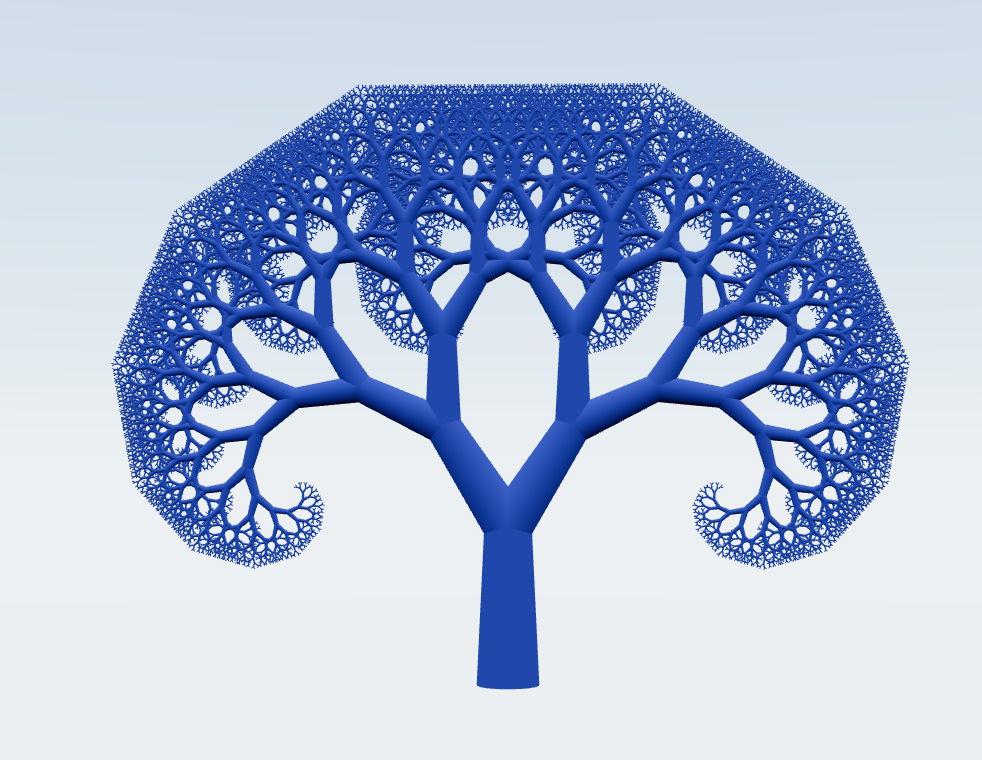
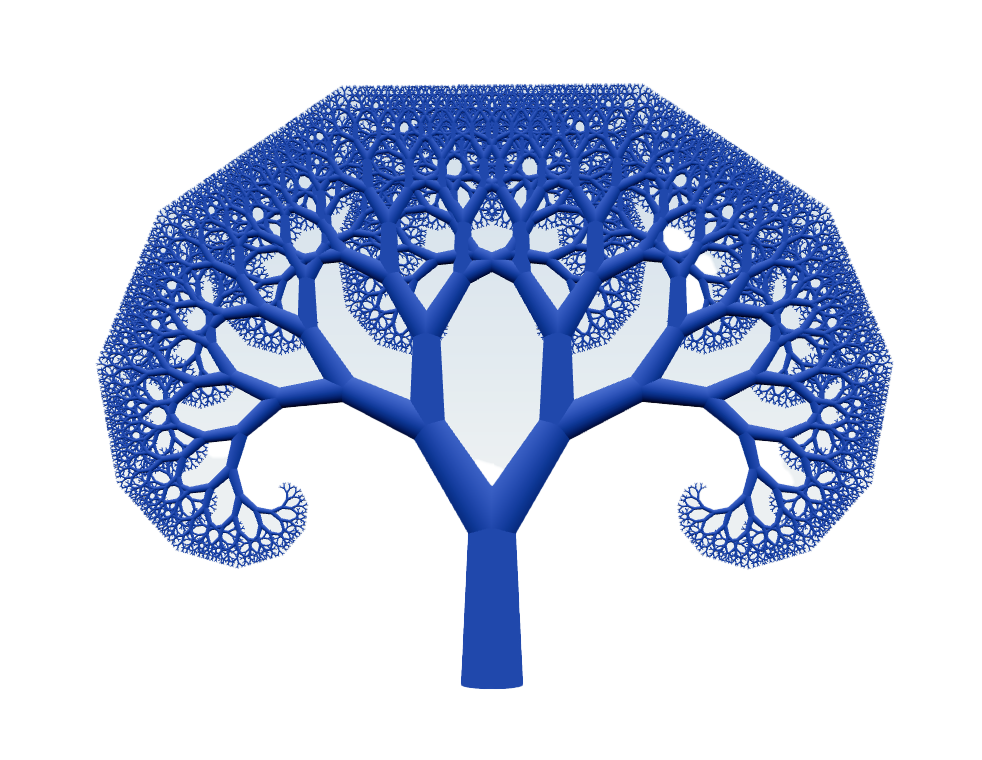
fractal tree update

diff --git a/components/fractal-tree.jsx b/components/fractal-tree.jsx
@@ -6,7 +6,13 @@ import * as THREE from "three/src/materials/MeshLambertMaterial";
 
 const royalblue = new THREE.MeshLambertMaterial({ color: "royalblue" });
 
-export default function FractalTreeCanvas({ is3D, initDepth }) {
+export default function FractalTreeCanvas({
+  is3D = false,
+  initDepth,
+  showDepth = false,
+  showAngle = false,
+  showShape = false,
+}) {
   const [depth, setDepth] = useState(initDepth);
   const [angleIncrement, setAngleIncrement] = useState(0.5);
   const [shape, setShape] = useState("cylinder");
@@ -15,7 +21,7 @@ export default function FractalTreeCanvas({ is3D, initDepth }) {
     setDepth(e.target.value);
   }
 
-  function handleAngleIncrement(e) {
+  function handleAngle(e) {
     setAngleIncrement(e.target.value);
   }
 
@@ -25,9 +31,9 @@ export default function FractalTreeCanvas({ is3D, initDepth }) {
 
   return (
     <>
-      <Canvas frameloop="demand">
-        <PerspectiveCamera makeDefault position={[0, 4, 9]} fov={50} />
-        <OrbitControls enableZoom={false} />
+      <Canvas frameloop="demand" antialias="false">
+        <PerspectiveCamera makeDefault position={[0, 3, 5]} fov={50} />
+        <OrbitControls enableZoom={false} target={[0, 2, 0]} />
         <hemisphereLight
           intensity={0.5}
           skyColor={0xffffbb}
@@ -43,12 +49,15 @@ export default function FractalTreeCanvas({ is3D, initDepth }) {
           />
         </Suspense>
       </Canvas>
-      <DepthAngleUI
-        depth={depth}
-        handleDepth={handleDepth}
-        angleIncrement={angleIncrement}
-        handleAngleIncrement={handleAngleIncrement}
-      />
+
+      {/* UI */}
+      <div className="mx-auto w-72 sm:w-96 flex justify-center my-3">
+        {showDepth && <DepthUI depth={depth} handleDepth={handleDepth} />}
+        {showAngle && (
+          <AngleUI angleIncrement={angleIncrement} handleAngle={handleAngle} />
+        )}
+        {showShape && <ShapeUI shape={shape} handleShape={handleShape} />}
+      </div>
     </>
   );
 }
@@ -71,8 +80,8 @@ function FractalTree({ depth, angleIncrement, shape, is3D }) {
     }
     branches.push(
       <Branch
-        radiusS={radius * ratio}
-        radiusE={radius}
+        radiusT={radius * ratio}
+        radiusB={radius}
         height={height}
         angleZ={angleZ}
         angleX={angleX}
@@ -97,8 +106,10 @@ function FractalTree({ depth, angleIncrement, shape, is3D }) {
     generate(depth, angleZL, 0, radius, height, x, y, z);
     generate(depth, angleZR, 0, radius, height, x, y, z);
     if (is3D) {
-      generate(depth, 0, angleZL, radius, height, x, y, z);
-      generate(depth, 0, angleZR, radius, height, x, y, z);
+      let angleXL = (angleX * 10 + angleIncrement * 10) / 10;
+      let angleXR = (angleX * 10 - angleIncrement * 10) / 10;
+      generate(depth, 0, angleXL, radius, height, x, y, z);
+      generate(depth, 0, angleXR, radius, height, x, y, z);
     }
   }
 
@@ -107,21 +118,21 @@ function FractalTree({ depth, angleIncrement, shape, is3D }) {
 }
 
 // branch of a fractal tree
-function Branch({ radiusS, radiusE, height, x, y, z, angleZ, angleX, shape }) {
+function Branch({ radiusT, radiusB, height, x, y, z, angleZ, angleX, shape }) {
   return (
     <group position={[x, y, z]} rotation={[angleX, 0, angleZ]}>
       <mesh position={[0, height / 2, 0]} material={royalblue}>
         {shape === "cylinder" ? (
           <cylinderGeometry
             attach="geometry"
-            args={[radiusS, radiusE, height, 32]}
+            args={[radiusT, radiusB, height, 32]}
           />
         ) : shape === "cube" ? (
           <boxGeometry attach="geometry" args={[height, height, height]} />
         ) : shape === "sphere" ? (
           <sphereGeometry attach="geometry" args={[height / 2]} />
         ) : (
-          <dodecahedronGeometry attach="geometry" args={[height / 2]} />
+          <octahedronGeometry attach="geometry" args={[height / 2]} />
         )}
       </mesh>
     </group>
@@ -129,50 +140,42 @@ function Branch({ radiusS, radiusE, height, x, y, z, angleZ, angleX, shape }) {
 }
 
 // GUI
-function DepthAngleUI({
-  depth,
-  handleDepth,
-  angleIncrement,
-  handleAngleIncrement,
-}) {
+function DepthUI({ depth, handleDepth }) {
   return (
-    <div className="mx-auto w-72 sm:w-96 flex justify-between">
-      <div className="flex flex-col">
-        <label htmlFor="depth-slider" className="my-2">
-          Depth
-        </label>
-        <input
-          id="depth-slider"
-          className="appearance-none bg-blue-500 rounded-lg h-1 thumb-lg-blue-600"
-          type="range"
-          min="1"
-          max="10"
-          value={depth}
-          onChange={(e) => handleDepth(e)}
-        />
-      </div>
-      <div className="flex flex-col ">
-        <label htmlFor="angle-slider" className="my-2">
-          Angle
-        </label>
-        <input
-          id="angle-slider"
-          className="appearance-none bg-blue-500 rounded-lg h-1 thumb-lg-blue-600"
-          type="range"
-          min="0.1"
-          max="1.5"
-          step="0.1"
-          value={angleIncrement}
-          onChange={(e) => handleAngleIncrement(e)}
-        />
-      </div>
+    <div className="">
+      <input
+        id="depth-slider"
+        className="appearance-none bg-blue-500 rounded-lg h-1 thumb-lg-blue-600"
+        type="range"
+        min="1"
+        max="10"
+        value={depth}
+        onChange={(e) => handleDepth(e)}
+      />
+    </div>
+  );
+}
+
+function AngleUI({ angleIncrement, handleAngle }) {
+  return (
+    <div className="">
+      <input
+        id="angle-slider"
+        className="appearance-none bg-blue-500 rounded-lg h-1 thumb-lg-blue-600"
+        type="range"
+        min="0.1"
+        max="1.5"
+        step="0.1"
+        value={angleIncrement}
+        onChange={(e) => handleAngle(e)}
+      />
     </div>
   );
 }
 
 function ShapeUI({ handleShape }) {
   return (
-    <div className="mx-auto w-72 sm:w-96 flex justify-between my-3">
+    <div className="mx-auto w-72 sm:w-96 flex justify-between">
       <button
         className="rounded-md bg-blue-500 px-3.5 py-1.5 text-base font-semibold leading-7 text-white shadow-sm hover:bg-blue-400"
         onClick={() => handleShape("cylinder")}
@@ -193,9 +196,9 @@ function ShapeUI({ handleShape }) {
       </button>
       <button
         className="rounded-md bg-blue-500 px-3.5 py-1.5 text-base font-semibold leading-7 text-white shadow-sm hover:bg-blue-400"
-        onClick={() => handleShape("Dodecahedron")}
+        onClick={() => handleShape("Octahedron")}
       >
-        Dodecahedron
+        Octahedron
       </button>
     </div>
   );

diff --git a/src/pages/index.tsx b/src/pages/index.tsx
@@ -64,8 +64,8 @@ export default function Home() {
                   React, Next.js, Tailwind, React Three Fiber
                 </p>
                 <p className="mt-1 text-sm text-gray-900">
-                  Play with and learn to create fractal trees with React Three
-                  Fiber.
+                  Interact with and learn to create fractal trees with React
+                  Three Fiber.
                 </p>
               </div>
               <Image
@@ -105,7 +105,7 @@ export default function Home() {
                 </div>
                 <div className="-ml-px flex w-0 flex-1">
                   <a
-                    href="https://github.com/SergenKaraoglan/sergen-karaoglan-portfolio/blob/main/components/fractal-trees.jsx"
+                    href="https://github.com/SergenKaraoglan/sergen-karaoglan-portfolio/blob/main/components/fractal-tree.jsx"
                     className="relative inline-flex w-0 flex-1 items-center justify-center rounded-br-lg border border-transparent py-4 text-sm font-medium text-gray-700 hover:text-gray-500"
                   >
                     <svg
